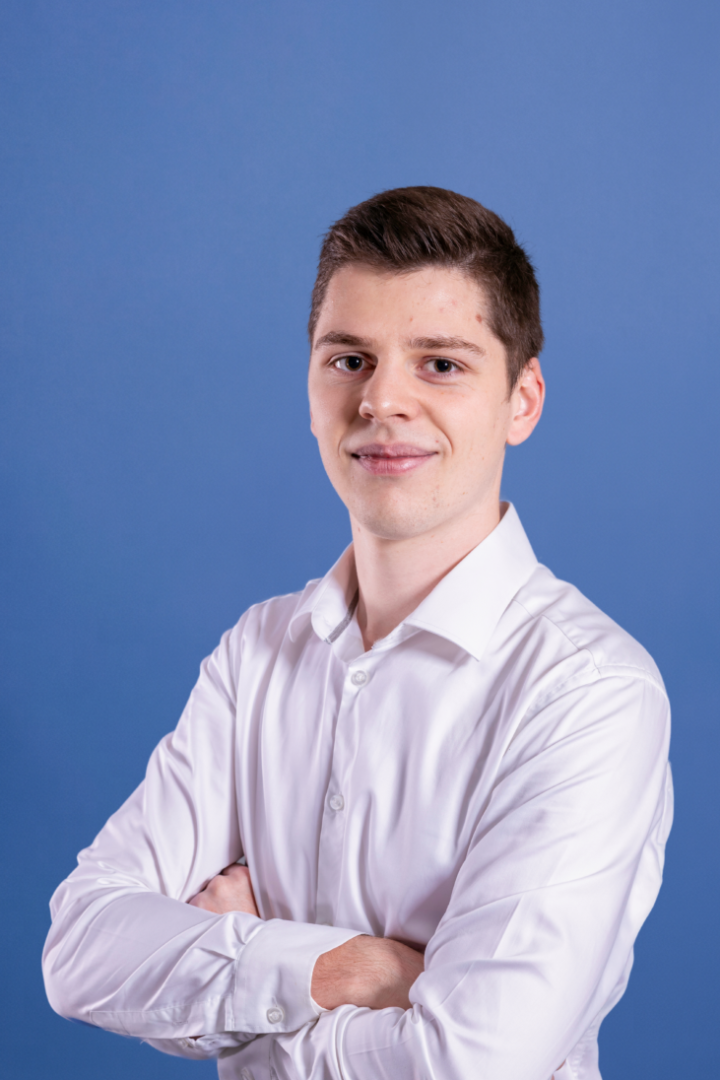
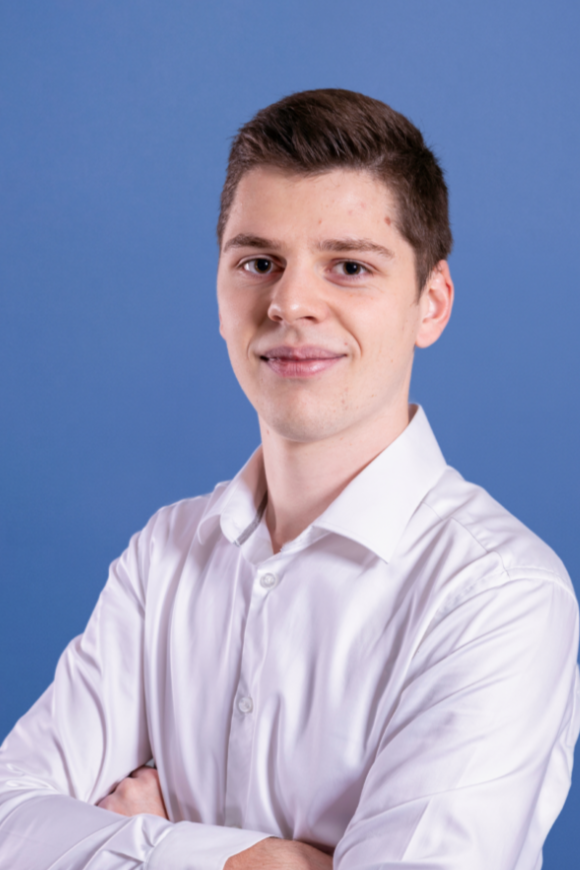
modification photo profile

diff --git a/index.html b/index.html
@@ -9,7 +9,7 @@
   <meta property="og:title" content="Matthias LUTZ | Portfolio UTBM">
   <meta property="og:description" content="Portfolio blueprint industriel: terminal interactif, projets, compétences, Erasmus et contact.">
   <meta property="og:type" content="website">
-  <meta property="og:image" content="https://tulz.fr/sources/portrait-matthias.png">
+  <meta property="og:image" content="https://tulz.fr/sources/Photo5.jpg">
   <meta name="theme-color" content="#0a1628">
   <link rel="icon" href="sources/tulz.png" type="image/png">
   <link rel="preconnect" href="https://fonts.googleapis.com">
@@ -87,7 +87,7 @@
         <span class="corner tl"></span><span class="corner tr"></span><span class="corner bl"></span><span class="corner br"></span>
         <div class="photo-annotation">MATTHIAS LUTZ / UTBM 2026</div>
         <div class="photo-shell">
-          <img src="sources/portrait-matthias.png" alt="Photo de Matthias Lutz" width="1100" height="1649">
+          <img src="sources/Photo5.jpg" alt="Photo de Matthias Lutz" width="1100" height="1649">
           <pre class="ascii-photo" id="ascii-photo"></pre>
         </div>
         <div class="hero-badges">
